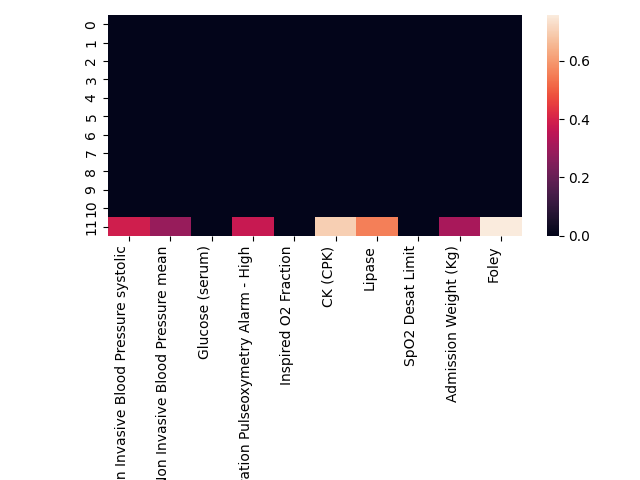
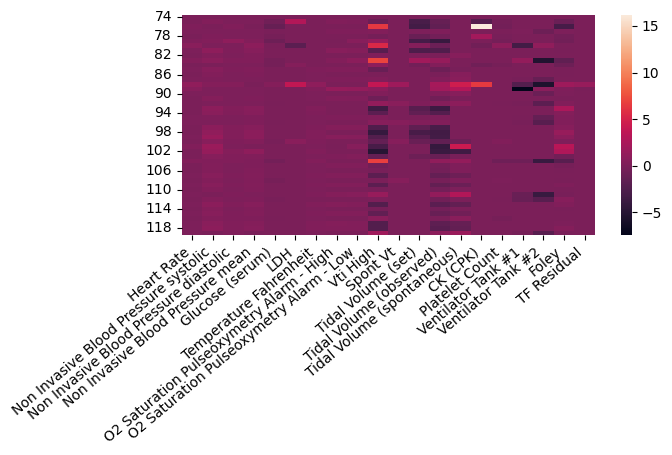
Use pad mask to focus local importances

diff --git a/src/tabsep/modeling/tstCaptum.py b/src/tabsep/modeling/tstCaptum.py
@@ -1,4 +1,9 @@
-from captum.attr import IntegratedGradients, InputXGradient
+from captum.attr import (
+    IntegratedGradients,
+    InputXGradient,
+    GuidedGradCam,
+    GuidedBackprop,
+)
 import torch
 import os
 from tabsep.modeling.tstImpl import TstOneInput, TSTransformerEncoderClassiregressor
@@ -65,12 +70,17 @@ if __name__ == "__main__":
     pad_masks = X_test[:, :, -1] == 1
     X_test = X_test[:, :, :-1]
 
-    ig = InputXGradient(model.forward)  # TODO: are there more modern methods?
-    attributions = ig.attribute(
-        X_test,
-        additional_forward_args=pad_masks,
-    )
+    # TODO: use everything
+    # X_test = X_test[0:32]
+    # pad_masks = pad_masks[0:32]
 
+    X_test.requires_grad = True
+
+    ig = InputXGradient(model)  # TODO: are there more modern methods?
+    attributions = ig.attribute(X_test, additional_forward_args=pad_masks, target=0)
+
+    # ig = IntegratedGradients(model.forward)
+    # attributions = ig.attribute(X_test, additional_forward_args=pad_masks)
     print("Got attributions")
 
     ##########
@@ -113,19 +123,21 @@ if __name__ == "__main__":
     plt.savefig("results/importances.png")
 
     ##########
-    # Local attribution of first sepsis patient
+    # Local attribution of first sepsis patient (idx 49 is longest ICU stay)
     ##########
-    sample_case = pd.DataFrame(attributions[0].detach().numpy())
+    sample_idx = 49
+    sample_case = pd.DataFrame(attributions[sample_idx].detach().numpy())
 
     sample_case.columns = get_feature_labels()
+    # Truncate by padding mask
+    sample_case = sample_case[pad_masks[sample_idx].tolist()]
     max_absolute_attribution = sample_case.abs().apply(lambda col: col.max())
-    top_n_features = max_absolute_attribution.nlargest(n=10).index
+    top_n_features = max_absolute_attribution.nlargest(n=20).index
 
     sample_case = sample_case.drop(
         columns=[c for c in sample_case.columns if c not in top_n_features]
     )
 
-    sample_case = sample_case.groupby(np.arange(len(sample_case)) // 10).max()
-
-    sns.heatmap(sample_case)
-    plt.savefig("results/local_importance.png")
+    ax = sns.heatmap(sample_case)
+    ax.set_xticklabels(ax.get_xticklabels(), rotation=40, ha="right")
+    plt.savefig("results/local_importance.png", bbox_inches="tight")
